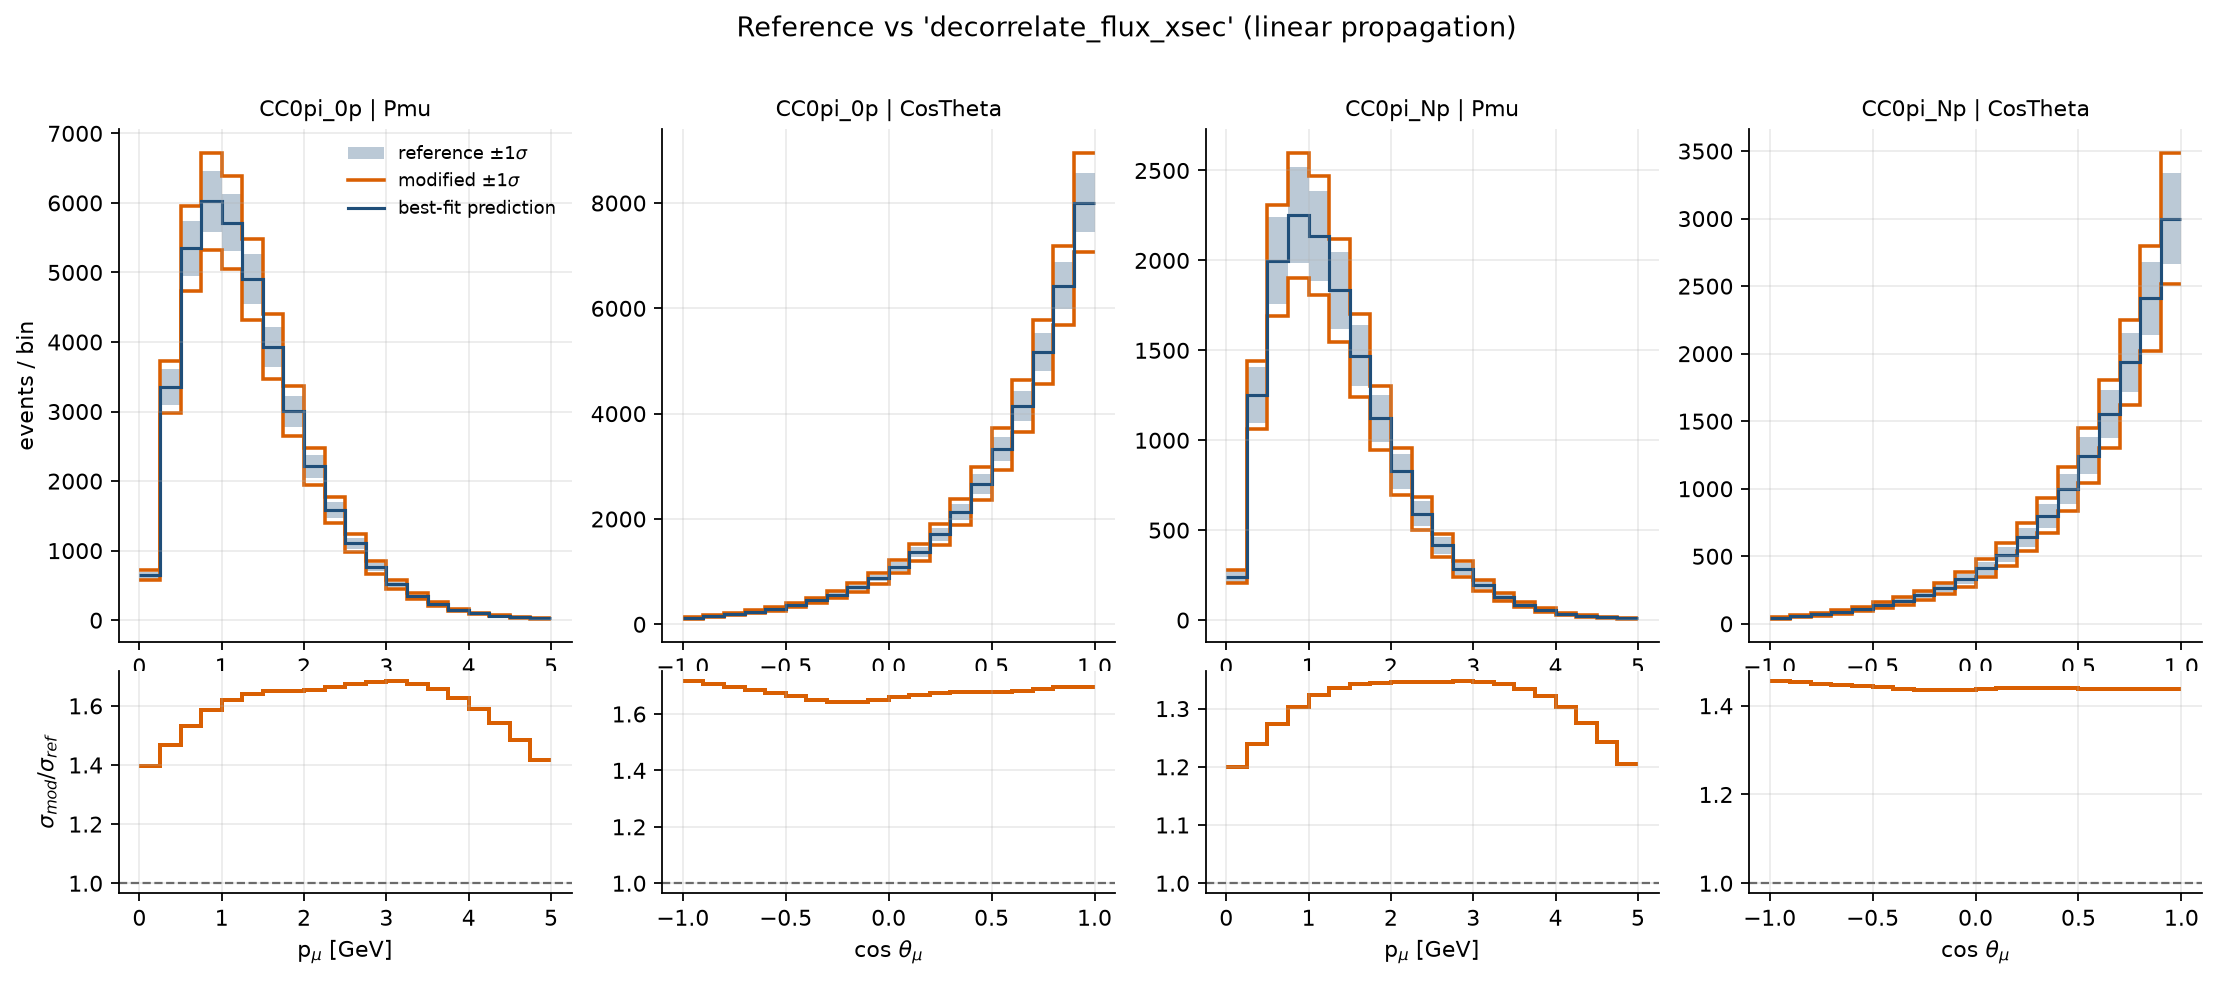
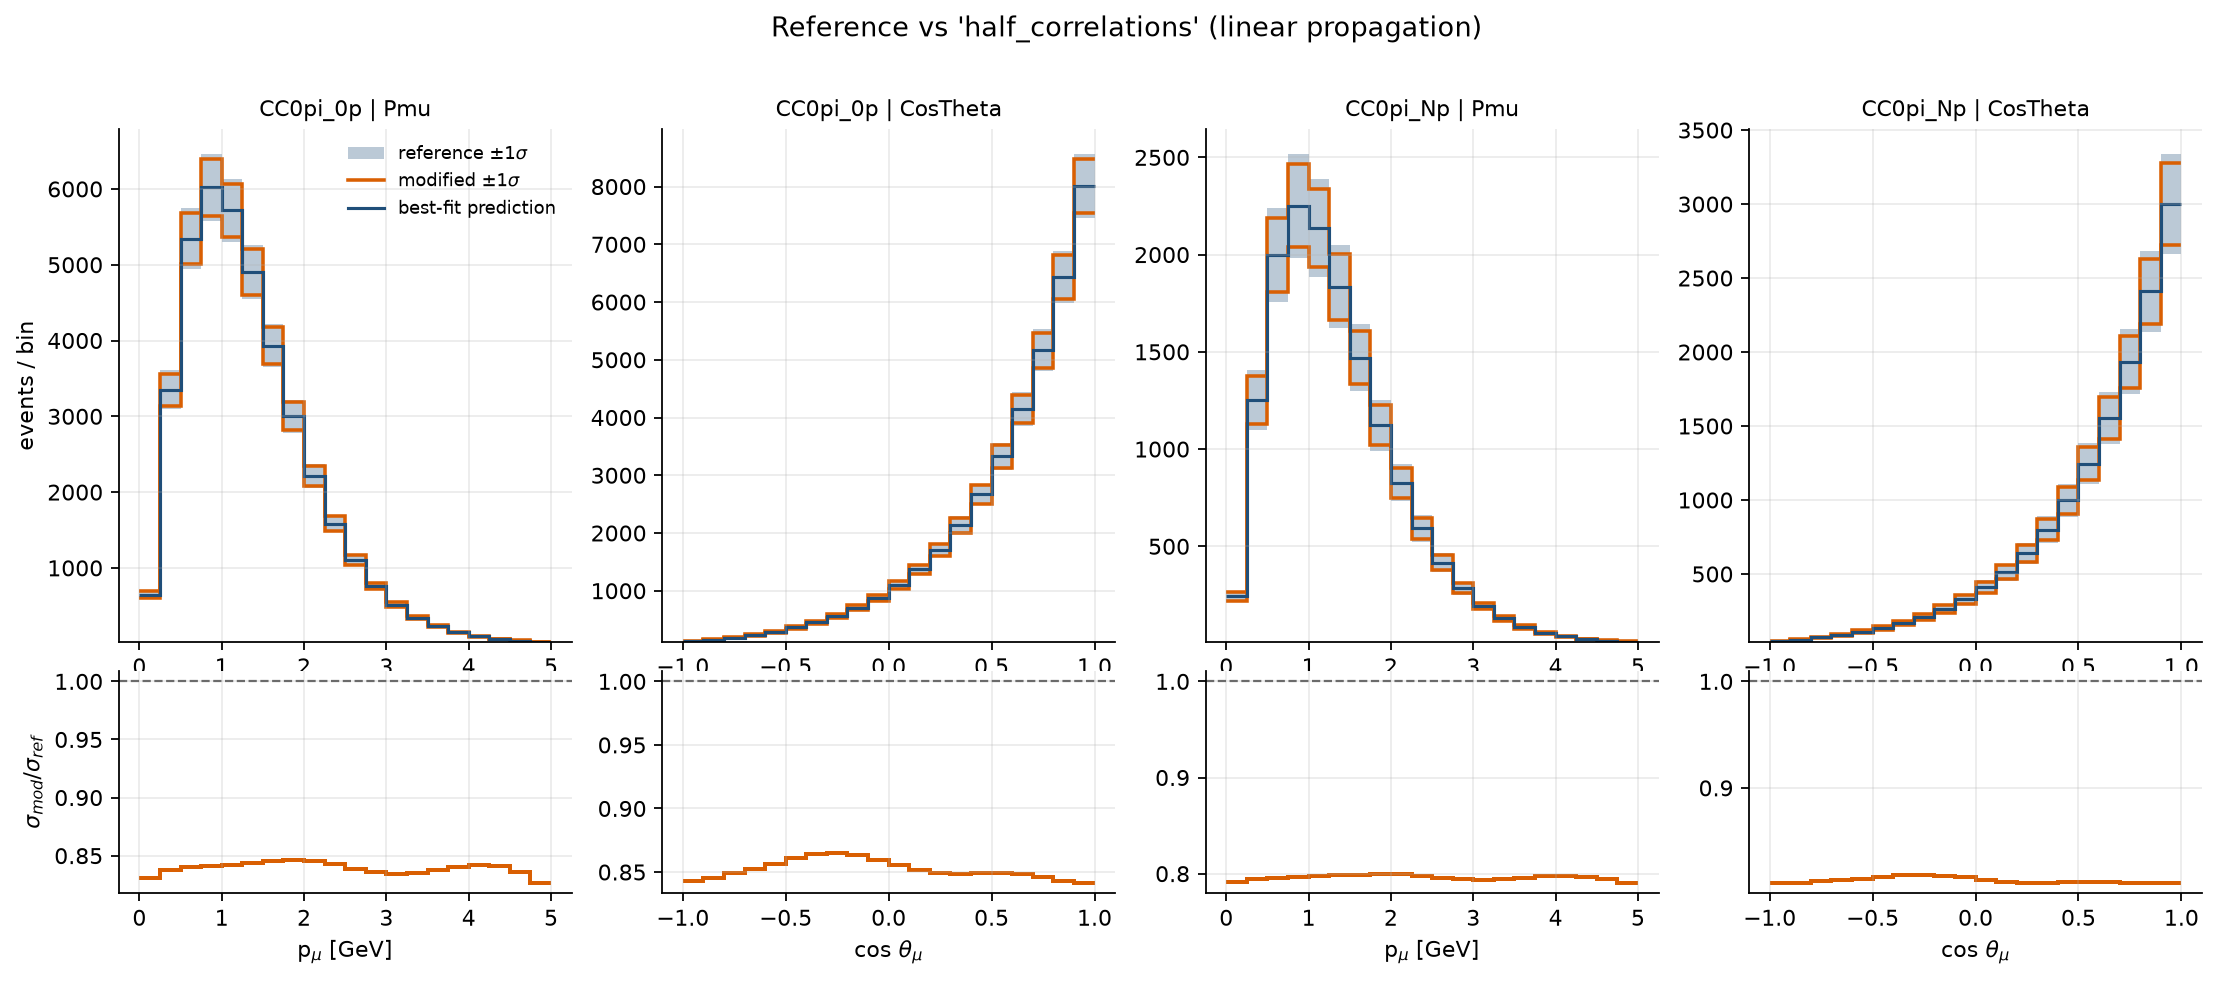
Update demo scenario and surrogate outputs

diff --git a/tests/test_pipeline.py b/tests/test_pipeline.py
@@ -10,7 +10,7 @@ def test_end_to_end_runs_and_control_scenario_is_neutral(tmp_path):
     save_dataset(tmp_path / "d.npz", ds, resp)
     cfg = {
         "data": str(tmp_path / "d.npz"), "output_dir": str(tmp_path / "out"),
-        "toys": {"n": 2000, "seed": 1}, "sweep": {"n_alpha": 3},
+        "toys": {"n": 3000, "seed": 1}, "sweep": {"n_alpha": 3},
         "headline_scenario": "decorr",
         "scenarios": [
             {"name": "decorr", "type": "decorrelate_groups", "groups": ["flux", "xsec"]},

diff --git a/src/covsens/response.py b/src/covsens/response.py
@@ -1,12 +1,4 @@
-"""A controlled, known response model used to build the synthetic benchmark.
 
-    N_i(theta) = N0_i * exp( sum_j a_ij theta_j + 0.5 * sum_j b_ij theta_j^2 )
-
-The quadratic term makes it mildly non-linear, so toys and linear propagation
-are *expected* to differ slightly, which is what the validation plot shows.
-Because the truth is known, the analytic Jacobian is available to test the
-numerical one.
-"""
 from __future__ import annotations
 
 from dataclasses import dataclass

diff --git a/src/covsens/pipeline.py b/src/covsens/pipeline.py
@@ -1,8 +1,4 @@
-"""End-to-end orchestration: load -> validate -> propagate ref & scenarios -> metrics -> figures.
 
-This is the only module that knows the order of the steps; every step itself lives
-in its own module and can be used on its own.
-"""
 from __future__ import annotations
 
 import logging

diff --git a/src/covsens/data.py b/src/covsens/data.py
@@ -1,8 +1,4 @@
-"""Core data containers shared by every module.
 
-Keeping them in one place means the other modules only exchange plain
-numpy arrays and these small, typed objects.
-"""
 from __future__ import annotations
 
 from collections.abc import Callable
